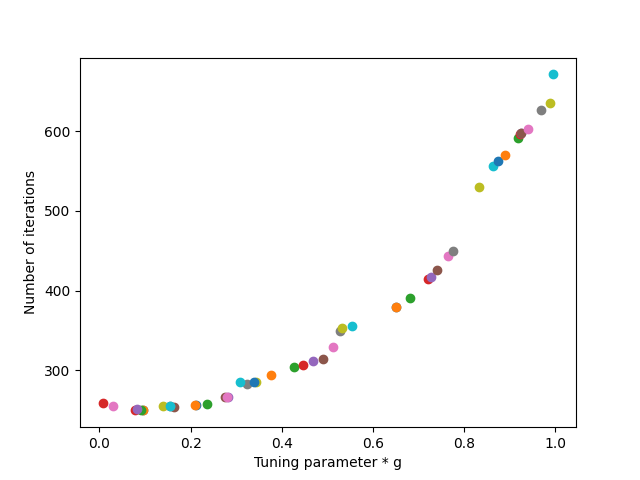
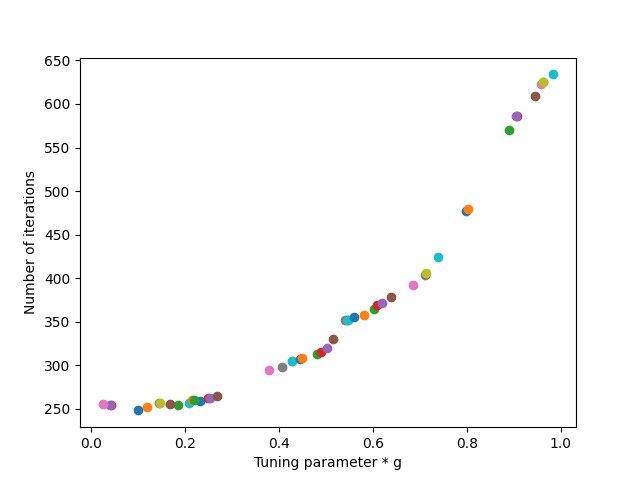
Added functionality for tuning through all maps

diff --git a/assignement_2/a_star.py b/assignement_2/a_star.py
@@ -1,10 +1,8 @@
 from Map import *
 import random
 
-
-def heurestic(startpos, endpos):
-    #distance = abs(startpos[0] - endpos[0]) + abs(startpos[1] - endpos[1])
-
+#This is used as the heurestic for the h-cost as well as the g-cost from current node to its neighbours - this allows for the agent to walk diagonally
+def distance(startpos, endpos):
     dy = abs(startpos[0] - endpos[0])
     dx = abs(startpos[1] - endpos[1])
     return min(dx,dy)*14 + abs(dx - dy)*10
@@ -14,13 +12,14 @@ class Node:
         self.parent = None
         self.pos = pos
         self.g = 0
-        self.h = heurestic(self.pos, map_obj.get_goal_pos())
+        self.h = distance(self.pos, map_obj.get_goal_pos())
 
         self.f = 0
     
     def __repr__(self):
         return f"Node at position: {self.pos}: g={self.g} h={self.h} f={self.get_f()}"
     
+    #The reason for this to be a function and not a member value is so that it is initialized after the g-cost has been set in get_neighbours()
     def get_f(self):
         return self.g + self.h
     
@@ -35,12 +34,11 @@ def aStar(task, tuning_param):
     def get_neighbours(node):
         neighbour_nodes = []
        
-        #All 8 neighbours  
+        #All 8 neighbours - including walks diagonally
         directions = [(0, 1), (0, -1), (1, 0), (-1, 0), (1, 1), (1, -1), (-1, 1), (-1, -1)]
         for y, x in directions:
 
             neighbour_node_pos = [node.pos[0] + y, node.pos[1] + x]
-
             #Skip the neighbour if it is outside the grid
             if neighbour_node_pos[0] < 0 or neighbour_node_pos[1] < 0 or neighbour_node_pos[0] >= len(map.get_maps()[0]) \
                 or neighbour_node_pos[1] > len(map.get_maps()[0][1]):
@@ -49,19 +47,19 @@ def aStar(task, tuning_param):
             #Check wether or not it is a wall
             if map.get_cell_value(neighbour_node_pos) < 0:
                 continue
-
-            neighbour_node = Node(map, neighbour_node_pos)
-            neighbour_node.parent = node
-            #This line should add a lot of extra cost if the node is a stair f.ex 
-            neighbour_node.g = node.g + heurestic(node.pos, neighbour_node.pos)*map.get_cell_value(neighbour_node_pos)*tuning_param
-            neighbour_node.f = neighbour_node.g + neighbour_node.h
-            #neighbour_node.g = node.g + map.get_cell_value(node.pos)
             
+            #Initialize the neighbour position as a node
+            neighbour_node = Node(map, neighbour_node_pos)
+            #All neighbours will be children of the current node
+            neighbour_node.parent = node
+            #This ensures that the g-cost takes the cell value into account - check tuning for why tuning param is multiplied in
+            neighbour_node.g = node.g + distance(node.pos, neighbour_node.pos)*map.get_cell_value(neighbour_node_pos)*tuning_param
+            neighbour_node.f = neighbour_node.g + neighbour_node.h
+
             neighbour_nodes.append(neighbour_node)
         return neighbour_nodes
     
-    #The actual searching algorithm
-
+    #The actual path
     starting_node = Node(map, map.get_start_pos())
     #Wether or not this should be end goal or goal is not yet known
     end_node = Node(map, map.get_goal_pos())
@@ -74,8 +72,10 @@ def aStar(task, tuning_param):
 
         current_node = open_list.pop(0)
         closed_list.append(current_node)
-        #This should work as a visualizer for all nodes considered
-        map.replace_map_values(current_node.pos, 2, map.get_end_goal_pos())
+        #Visualisez all nodes that are "opened"
+        map.replace_map_values(current_node.pos, 8, map.get_end_goal_pos())
+
+        #Unncomment to step through the search
         #map.update_image()
 
         if current_node == end_node:
@@ -90,8 +90,7 @@ def aStar(task, tuning_param):
             print("Solution has been found! \n")
             #Higlight the starting point as green
             map.replace_map_values(map.get_start_pos(), 5, map.get_goal_pos())
-            #map.show_map()
-            #map.update_image()
+            #map.update_image(True)
             return path[::-1] , num_iter
         
         neighbour_nodes = get_neighbours(current_node)
@@ -110,29 +109,34 @@ def aStar(task, tuning_param):
     print("No solution found")
     return False
 
-#Setup for tuning the parameter for g vs h
-results_sum = [] 
-for i in range(50):
-    tuning_param = random.random()
-    result = [tuning_param, 0]
-    for task in range(1,5):
-        #Use the tuning param on all tasks, sum the number of iterations
-        path, num_iter = aStar(task, tuning_param)
-        result[1] += num_iter
-
-    results_sum.append(result)
-
-results_sum.sort(key=lambda x: x[1])
-print(results_sum)
 
 
-#Plotting the results with matplotlib as a scatter plot
-import matplotlib.pyplot as plt
-for i in range(len(results_sum)):
-    plt.scatter(results_sum[i][0], results_sum[i][1])
 
-plt.xlabel("Tuning parameter * g")
-plt.ylabel("Number of iterations")
-plt.savefig("tuning_param.png")
-plt.show()
+def tuning():
+    #Setup for tuning the parameter for g vs h
+    results_sum = [] 
+    for i in range(50):
+        tuning_param = random.random()
+        result = [tuning_param, 0]
+        for task in range(1,5):
+            #Use the tuning param on all tasks, sum the number of iterations
+            path, num_iter = aStar(task, tuning_param)
+            result[1] += num_iter
 
+        results_sum.append(result)
+
+    results_sum.sort(key=lambda x: x[1])
+    print(results_sum)
+
+    #Plotting the results with matplotlib as a scatter plot
+    import matplotlib.pyplot as plt
+    for i in range(len(results_sum)):
+        plt.scatter(results_sum[i][0], results_sum[i][1])
+
+    plt.xlabel("Tuning parameter * g")
+    plt.ylabel("Number of iterations")
+    plt.savefig("tuning_param.png")
+    plt.show()
+tuning()
+if __name__ == "__main__":
+    aStar(1, 1)

diff --git a/assignement_2/Map.py b/assignement_2/Map.py
@@ -237,6 +237,8 @@ class Map_Obj():
             str_value = ' # '
         elif value == 7:
             str_value = ' S '
+        elif value == 8:
+            str_value = ' X '
         else:
             str_value = str(value)
         self.int_map[pos[0]][pos[1]] = value
@@ -348,7 +350,8 @@ class Map_Obj():
             ' ; ': (36, 36, 36),   # blackish
             ' S ': (255, 0, 255),  # magenta
             ' G ': (0, 128, 255),   # cyan
-            ' Green ': (0, 255, 0)  # green
+            ' Green ': (0, 255, 0),  # green
+            ' X ': (150, 150, 0)  # Yellow
         }
         # Go through image and set pixel color for every position
         for y in range(height):
@@ -366,11 +369,16 @@ class Map_Obj():
 
         return image
 
-    def update_image(self):
+    def update_image(self, save = False):
         npimage = np.array(self.show_map())
         cv2.imshow('image', npimage)
-        #Wait for a button press
-        while cv2.waitKey(1) == -1:
+        if save:
+            cv2.imwrite('image.png', npimage)
+
+        while cv2.waitKey(33) != 27:
             pass
+        cv2.destroyAllWindows()
+
+
     
 
